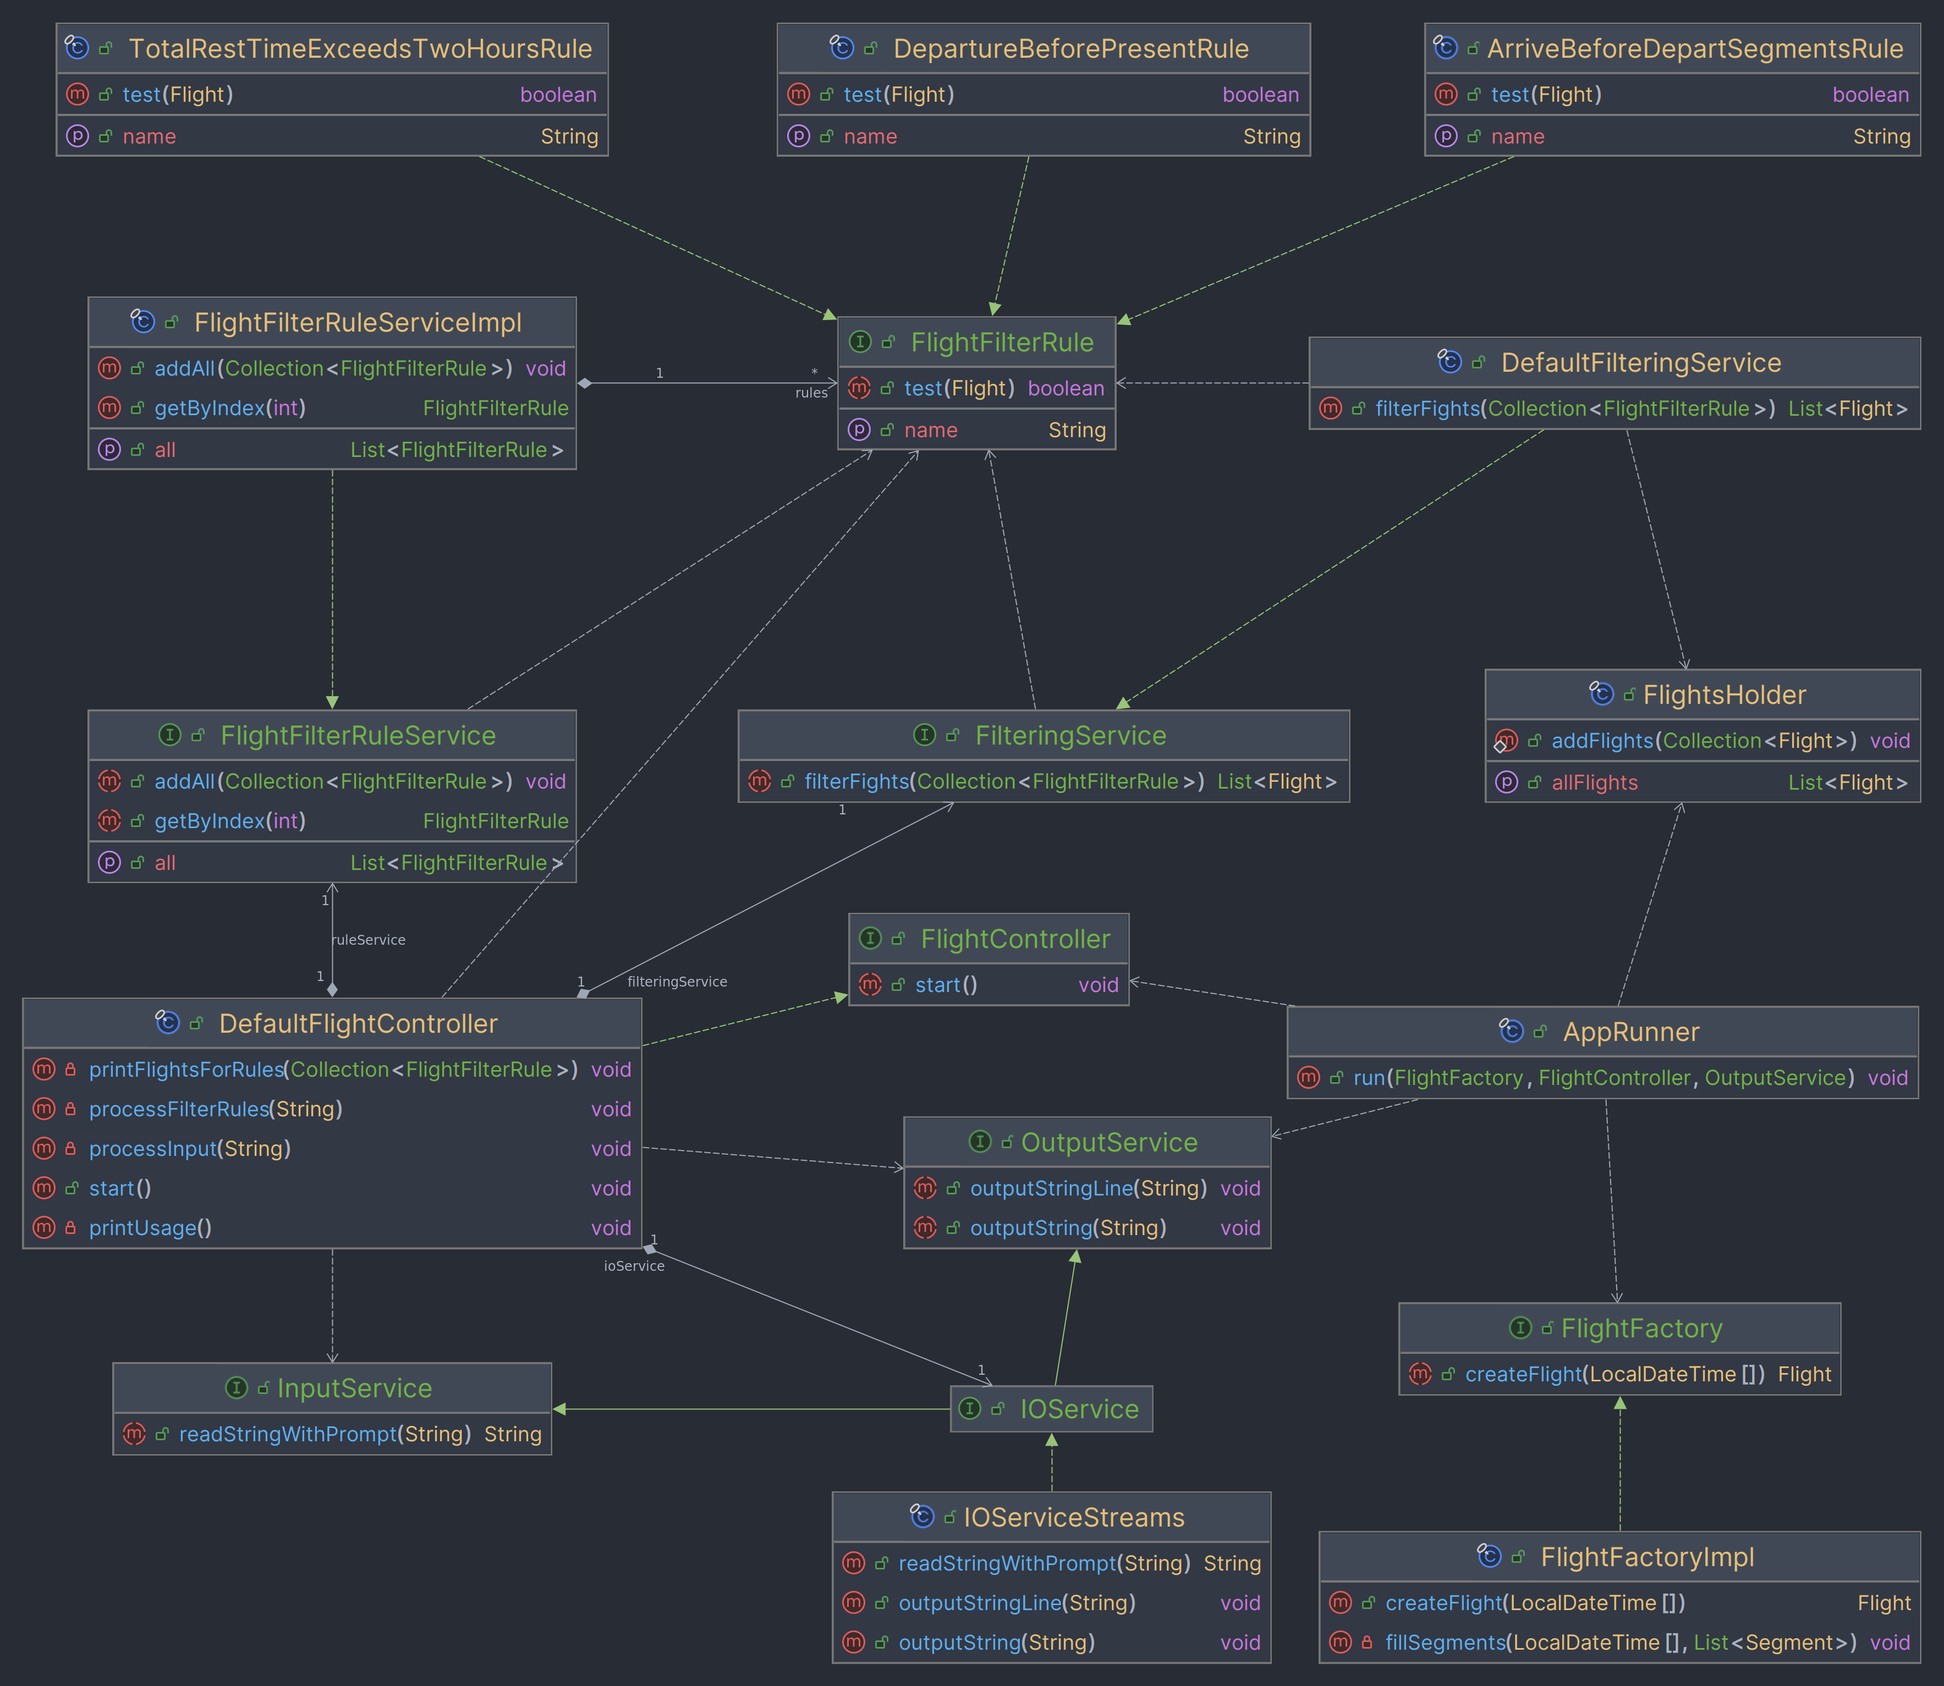
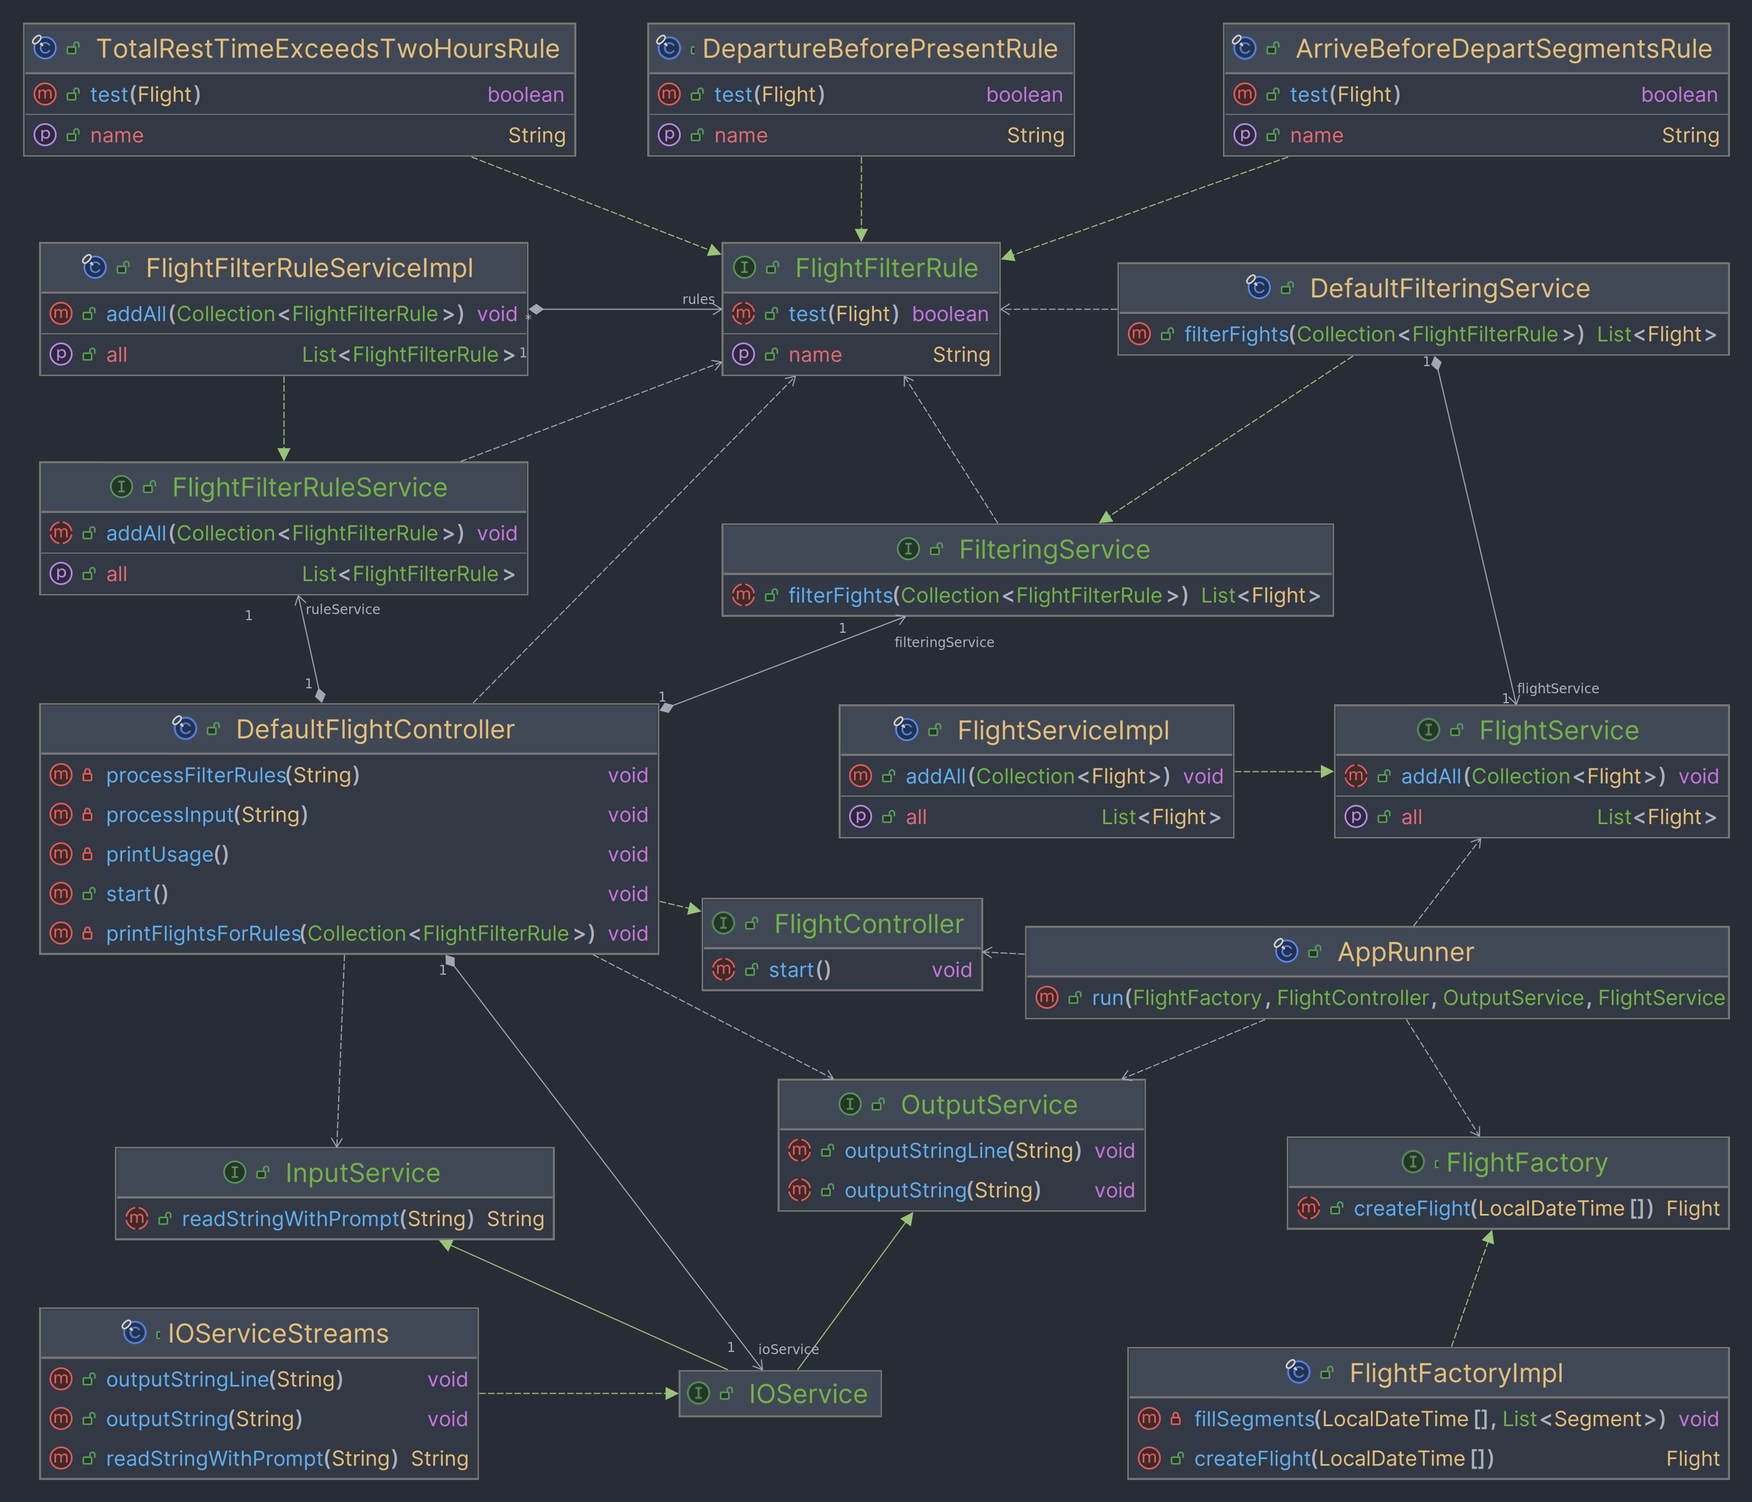
Remove holder with static accessor, add flight service
- Change FLightsHolder with static accessor to FlightService and its impl;
- Move static mock to non-static in tests;
- Edit diagrams, metadata, readme;

diff --git a/src/test/java/com/gridnine/testing/service/filter/DefaultFilteringServiceTest.java b/src/test/java/com/gridnine/testing/service/filter/DefaultFilteringServiceTest.java
@@ -4,26 +4,30 @@ import static java.time.LocalDateTime.now;
 import static java.util.Collections.emptyList;
 import static java.util.List.of;
 import static org.junit.jupiter.api.Assertions.assertEquals;
+import static org.mockito.Mockito.when;
+
+import java.util.List;
+
+import org.junit.jupiter.api.Test;
+import org.junit.jupiter.api.extension.ExtendWith;
+import org.mockito.InjectMocks;
+import org.mockito.Mock;
+import org.mockito.junit.jupiter.MockitoExtension;
 
 import com.gridnine.testing.model.Flight;
 import com.gridnine.testing.model.Segment;
-import com.gridnine.testing.service.holder.FlightsHolder;
+import com.gridnine.testing.service.flight.FlightService;
 import com.gridnine.testing.service.rule.stratagies.FlightFilterRule;
-import java.util.ArrayList;
-import java.util.List;
-import org.junit.jupiter.api.Test;
-import org.mockito.Mockito;
 
+@ExtendWith(MockitoExtension.class)
 class DefaultFilteringServiceTest {
 
   private static final Flight MATCHING_FLIGHT = new Flight(of(
-      new Segment(now().minusHours(7), now().minusHours(1)))
-  );
+      new Segment(now().minusHours(7), now().minusHours(1))));
 
   private static final Flight NON_MATCHING_FLIGHT = new Flight(of(
       new Segment(now().minusDays(3), now().minusDays(2)),
-      new Segment(now().minusDays(1), now().plusDays(1)))
-  );
+      new Segment(now().minusDays(1), now().plusDays(1))));
 
   private static final FlightFilterRule RULE_1 = new FlightFilterRule() {
     @Override
@@ -50,29 +54,27 @@ class DefaultFilteringServiceTest {
     }
   };
 
-  private final FilteringService service = new DefaultFilteringService();
+  @Mock
+  private FlightService flightService;
+
+  @InjectMocks
+  private DefaultFilteringService service;
 
   @Test
   void shouldReturnAllFlightsIfNoRulesPresent() {
-    try (var flightsHolder = Mockito.mockStatic(FlightsHolder.class)) {
-      flightsHolder.when(FlightsHolder::getAllFlights)
-          .thenReturn(new ArrayList<>(of(NON_MATCHING_FLIGHT, MATCHING_FLIGHT)));
+    when(flightService.getAll()).thenReturn(of(NON_MATCHING_FLIGHT, MATCHING_FLIGHT));
 
-      List<Flight> flights = service.filterFights(emptyList());
+    List<Flight> flights = service.filterFights(emptyList());
 
-      assertEquals(of(NON_MATCHING_FLIGHT, MATCHING_FLIGHT), flights);
-    }
+    assertEquals(of(NON_MATCHING_FLIGHT, MATCHING_FLIGHT), flights);
   }
 
   @Test
   void shouldReturnFlightsMatchingRules() {
-    try (var flightsHolder = Mockito.mockStatic(FlightsHolder.class)) {
-      flightsHolder.when(FlightsHolder::getAllFlights)
-          .thenReturn(new ArrayList<>(of(NON_MATCHING_FLIGHT, MATCHING_FLIGHT)));
+    when(flightService.getAll()).thenReturn(of(NON_MATCHING_FLIGHT, MATCHING_FLIGHT));
 
-      List<Flight> flights = service.filterFights(of(RULE_1, RULE_2));
+    List<Flight> flights = service.filterFights(of(RULE_1, RULE_2));
 
-      assertEquals(of(NON_MATCHING_FLIGHT), flights);
-    }
+    assertEquals(of(NON_MATCHING_FLIGHT), flights);
   }
 }

diff --git a/src/test/java/com/gridnine/testing/controller/DefaultFlightControllerTest.java b/src/test/java/com/gridnine/testing/controller/DefaultFlightControllerTest.java
@@ -14,11 +14,19 @@ import static java.time.LocalDateTime.now;
 import static java.util.Collections.emptyList;
 import static java.util.Collections.singletonList;
 import static org.junit.jupiter.api.Assertions.assertDoesNotThrow;
-import static org.mockito.ArgumentMatchers.anyInt;
 import static org.mockito.ArgumentMatchers.anyString;
 import static org.mockito.Mockito.times;
 import static org.mockito.Mockito.verify;
 import static org.mockito.Mockito.when;
+
+import java.util.List;
+import java.util.Set;
+
+import org.junit.jupiter.api.Test;
+import org.junit.jupiter.api.extension.ExtendWith;
+import org.mockito.InjectMocks;
+import org.mockito.Mock;
+import org.mockito.junit.jupiter.MockitoExtension;
 
 import com.gridnine.testing.model.Flight;
 import com.gridnine.testing.model.Segment;
@@ -26,13 +34,6 @@ import com.gridnine.testing.service.filter.FilteringService;
 import com.gridnine.testing.service.io.IOService;
 import com.gridnine.testing.service.rule.FlightFilterRuleService;
 import com.gridnine.testing.service.rule.stratagies.FlightFilterRule;
-import java.util.List;
-import java.util.Set;
-import org.junit.jupiter.api.Test;
-import org.junit.jupiter.api.extension.ExtendWith;
-import org.mockito.InjectMocks;
-import org.mockito.Mock;
-import org.mockito.junit.jupiter.MockitoExtension;
 
 @ExtendWith(MockitoExtension.class)
 class DefaultFlightControllerTest {
@@ -90,7 +91,6 @@ class DefaultFlightControllerTest {
   void shouldPrintUsageWhenHelpFlagIsEntered() {
     when(ioService.readStringWithPrompt(anyString())).thenReturn(HELP, EXIT);
     when(ruleService.getAll()).thenReturn(singletonList(RULE));
-    when(ruleService.getByIndex(anyInt())).thenReturn(RULE);
 
     assertDoesNotThrow(controller::start);
 
@@ -135,7 +135,6 @@ class DefaultFlightControllerTest {
   void shouldPrintMessageOnNumberOutOfRulesListRange() {
     when(ioService.readStringWithPrompt(anyString())).thenReturn("2", EXIT);
     when(ruleService.getAll()).thenReturn(singletonList(RULE));
-    when(ruleService.getByIndex(anyInt())).thenReturn(RULE);
 
     assertDoesNotThrow(controller::start);
 
@@ -146,7 +145,6 @@ class DefaultFlightControllerTest {
   void shouldPrintMessageOnNegativeRuleIndex() {
     when(ioService.readStringWithPrompt(anyString())).thenReturn("-1", EXIT);
     when(ruleService.getAll()).thenReturn(singletonList(RULE));
-    when(ruleService.getByIndex(anyInt())).thenReturn(RULE);
 
     assertDoesNotThrow(controller::start);
 
@@ -157,7 +155,6 @@ class DefaultFlightControllerTest {
   void shouldPrintMultipleFlightsOnCorrectInput() {
     when(ioService.readStringWithPrompt(anyString())).thenReturn("1", EXIT);
     when(ruleService.getAll()).thenReturn(singletonList(RULE));
-    when(ruleService.getByIndex(anyInt())).thenReturn(RULE);
     when(filteringService.filterFights(Set.of(RULE))).thenReturn(List.of(FLIGHT, FLIGHT));
 
     assertDoesNotThrow(controller::start);

diff --git a/src/main/java/com/gridnine/testing/controller/DefaultFlightController.java b/src/main/java/com/gridnine/testing/controller/DefaultFlightController.java
@@ -2,17 +2,17 @@ package com.gridnine.testing.controller;
 
 import static com.gridnine.testing.controller.MenuConstants.*;
 
+import java.util.Collection;
+import java.util.Collections;
+import java.util.HashSet;
+import java.util.Set;
+import java.util.concurrent.atomic.AtomicBoolean;
+
 import com.gridnine.testing.model.Flight;
 import com.gridnine.testing.service.filter.FilteringService;
 import com.gridnine.testing.service.io.IOService;
 import com.gridnine.testing.service.rule.FlightFilterRuleService;
 import com.gridnine.testing.service.rule.stratagies.FlightFilterRule;
-import java.util.Collection;
-import java.util.Collections;
-import java.util.HashSet;
-import java.util.List;
-import java.util.Set;
-import java.util.concurrent.atomic.AtomicBoolean;
 
 public final class DefaultFlightController implements FlightController {
 
@@ -55,29 +55,31 @@ public final class DefaultFlightController implements FlightController {
   }
 
   private void processFilterRules(String input) {
+    var allRules = ruleService.getAll();
     Set<FlightFilterRule> activeRules = new HashSet<>();
     String[] numbersSeparated = input.split(" ");
     for (var numberString : numbersSeparated) {
       int index = Integer.parseInt(numberString) - 1;
-      if (index < 0 || index >= ruleService.getAll().size()) {
+      if (index < 0 || index >= allRules.size()) {
         ioService.outputStringLine(OUT_OF_RANGE_ERROR_MSG + (index + 1));
         return;
       }
-      activeRules.add(ruleService.getByIndex(index));
+      activeRules.add(allRules.get(index));
     }
     printFlightsForRules(activeRules);
   }
 
   private void printUsage() {
+    var rules = ruleService.getAll();
     ioService.outputStringLine(USAGE);
-    for (int i = 0; i < ruleService.getAll().size(); i++) {
+    for (int i = 0; i < rules.size(); i++) {
       ioService.outputStringLine(
-          RULE_PRINT_FORMAT.formatted(i + 1, ruleService.getByIndex(i).getName()));
+          RULE_PRINT_FORMAT.formatted(i + 1, rules.get(i).getName()));
     }
   }
 
   private void printFlightsForRules(Collection<FlightFilterRule> activeRules) {
-    List<Flight> flights = filteringService.filterFights(activeRules);
+    var flights = filteringService.filterFights(activeRules);
     if (flights.isEmpty()) {
       ioService.outputStringLine(EMPTY_FLIGHTS_MSG);
     } else {

diff --git a/src/main/java/com/gridnine/testing/Main.java b/src/main/java/com/gridnine/testing/Main.java
@@ -6,6 +6,8 @@ import com.gridnine.testing.service.factory.FlightFactory;
 import com.gridnine.testing.service.factory.FlightFactoryImpl;
 import com.gridnine.testing.service.filter.DefaultFilteringService;
 import com.gridnine.testing.service.filter.FilteringService;
+import com.gridnine.testing.service.flight.FlightService;
+import com.gridnine.testing.service.flight.FlightServiceImpl;
 import com.gridnine.testing.service.io.IOService;
 import com.gridnine.testing.service.io.IOServiceStreams;
 import com.gridnine.testing.service.rule.FlightFilterRuleService;
@@ -20,14 +22,14 @@ public final class Main {
   public static void main(String[] args) {
     IOService ioService = new IOServiceStreams(System.out, System.in);
     FlightFactory factory = new FlightFactoryImpl();
-    FilteringService filteringService = new DefaultFilteringService();
+    FlightService flightService = new FlightServiceImpl();
+    FilteringService filteringService = new DefaultFilteringService(flightService);
     FlightFilterRuleService ruleService = new FlightFilterRuleServiceImpl();
     ruleService.addAll(List.of(
         new DepartureBeforePresentRule(),
         new ArriveBeforeDepartSegmentsRule(),
-        new TotalRestTimeExceedsTwoHoursRule()
-    ));
+        new TotalRestTimeExceedsTwoHoursRule()));
     FlightController controller = new DefaultFlightController(ioService, filteringService, ruleService);
-    new AppRunner().run(factory, controller, ioService);
+    new AppRunner().run(factory, controller, ioService, flightService);
   }
 }

diff --git a/src/main/java/com/gridnine/testing/AppRunner.java b/src/main/java/com/gridnine/testing/AppRunner.java
@@ -1,19 +1,21 @@
 package com.gridnine.testing;
 
+import java.util.List;
+
 import com.gridnine.testing.controller.FlightController;
 import com.gridnine.testing.exception.FlightDetailsException;
 import com.gridnine.testing.model.Flight;
 import com.gridnine.testing.service.factory.FlightFactory;
-import com.gridnine.testing.service.holder.FlightsHolder;
+import com.gridnine.testing.service.flight.FlightService;
 import com.gridnine.testing.service.io.OutputService;
-import java.util.List;
 
 public final class AppRunner {
 
-  public void run(FlightFactory factory, FlightController controller, OutputService outputService) {
+  public void run(FlightFactory factory, FlightController controller, OutputService outputService,
+      FlightService flightService) {
     try {
       List<Flight> flights = FlightBuilder.createTestFlights(factory);
-      FlightsHolder.addFlights(flights);
+      flightService.addAll(flights);
       controller.start();
     } catch (FlightDetailsException e) {
       outputService.outputStringLine("FLIGHT DETAILS ERROR: " + e.getMessage());

diff --git a/src/main/java/com/gridnine/testing/service/rule/FlightFilterRuleServiceImpl.java b/src/main/java/com/gridnine/testing/service/rule/FlightFilterRuleServiceImpl.java
@@ -1,26 +1,22 @@
 package com.gridnine.testing.service.rule;
 
-import com.gridnine.testing.service.rule.stratagies.FlightFilterRule;
+import java.util.ArrayList;
 import java.util.Collection;
 import java.util.List;
-import java.util.concurrent.CopyOnWriteArrayList;
+
+import com.gridnine.testing.service.rule.stratagies.FlightFilterRule;
 
 public final class FlightFilterRuleServiceImpl implements FlightFilterRuleService {
 
-  private final List<FlightFilterRule> rules = new CopyOnWriteArrayList<>();
+  private final List<FlightFilterRule> rules = new ArrayList<>();
 
   @Override
-  public void addAll(Collection<? extends FlightFilterRule> rules) {
+  public synchronized void addAll(Collection<? extends FlightFilterRule> rules) {
     this.rules.addAll(rules);
   }
 
   @Override
-  public List<FlightFilterRule> getAll() {
-    return rules;
-  }
-
-  @Override
-  public FlightFilterRule getByIndex(int index) {
-    return rules.get(index);
+  public synchronized List<FlightFilterRule> getAll() {
+    return List.copyOf(rules);
   }
 }

diff --git a/src/main/java/com/gridnine/testing/service/filter/DefaultFilteringService.java b/src/main/java/com/gridnine/testing/service/filter/DefaultFilteringService.java
@@ -1,16 +1,24 @@
 package com.gridnine.testing.service.filter;
 
-import com.gridnine.testing.model.Flight;
-import com.gridnine.testing.service.holder.FlightsHolder;
-import com.gridnine.testing.service.rule.stratagies.FlightFilterRule;
+import java.util.ArrayList;
 import java.util.Collection;
 import java.util.List;
 
+import com.gridnine.testing.model.Flight;
+import com.gridnine.testing.service.flight.FlightService;
+import com.gridnine.testing.service.rule.stratagies.FlightFilterRule;
+
 public final class DefaultFilteringService implements FilteringService {
+
+  private final FlightService flightService;
+
+  public DefaultFilteringService(FlightService flightService) {
+    this.flightService = flightService;
+  }
 
   @Override
   public List<Flight> filterFights(Collection<FlightFilterRule> rules) {
-    List<Flight> flights = FlightsHolder.getAllFlights();
+    List<Flight> flights = new ArrayList<>(flightService.getAll());
     for (var rule : rules) {
       flights.removeIf(rule);
     }

diff --git a/src/main/java/com/gridnine/testing/service/flight/FlightServiceImpl.java b/src/main/java/com/gridnine/testing/service/flight/FlightServiceImpl.java
@@ -1,0 +1,22 @@
+package com.gridnine.testing.service.flight;
+
+import java.util.ArrayList;
+import java.util.Collection;
+import java.util.List;
+
+import com.gridnine.testing.model.Flight;
+
+public final class FlightServiceImpl implements FlightService {
+
+  private final List<Flight> rules = new ArrayList<>();
+
+  @Override
+  public synchronized void addAll(Collection<? extends Flight> rules) {
+    this.rules.addAll(rules);
+  }
+
+  @Override
+  public synchronized List<Flight> getAll() {
+    return List.copyOf(rules);
+  }
+}

diff --git a/src/test/java/com/gridnine/testing/service/rule/stratagies/TotalRestTimeExceedsTwoHoursRuleTest.java b/src/test/java/com/gridnine/testing/service/rule/stratagies/TotalRestTimeExceedsTwoHoursRuleTest.java
@@ -21,7 +21,7 @@ class TotalRestTimeExceedsTwoHoursRuleTest {
       new Segment(now().plusHours(6), now().plusHours(7)))
   );
 
-  FlightFilterRule rule = new TotalRestTimeExceedsTwoHoursRule();
+  final FlightFilterRule rule = new TotalRestTimeExceedsTwoHoursRule();
 
   @Test
   void shouldReturnTrueOnMatchingFlight() {

diff --git a/src/main/java/com/gridnine/testing/service/flight/FlightService.java b/src/main/java/com/gridnine/testing/service/flight/FlightService.java
@@ -1,0 +1,13 @@
+package com.gridnine.testing.service.flight;
+
+import java.util.Collection;
+import java.util.List;
+
+import com.gridnine.testing.model.Flight;
+
+public interface FlightService {
+
+  void addAll(Collection<? extends Flight> rule);
+
+  List<Flight> getAll();
+}

diff --git a/src/main/java/com/gridnine/testing/service/rule/FlightFilterRuleService.java b/src/main/java/com/gridnine/testing/service/rule/FlightFilterRuleService.java
@@ -9,6 +9,4 @@ public interface FlightFilterRuleService {
   void addAll(Collection<? extends FlightFilterRule> rule);
 
   List<FlightFilterRule> getAll();
-
-  FlightFilterRule getByIndex(int index);
 }

diff --git a/src/main/java/com/gridnine/testing/service/io/InputService.java b/src/main/java/com/gridnine/testing/service/io/InputService.java
@@ -4,4 +4,3 @@ public interface InputService {
 
   String readStringWithPrompt(String prompt);
 }
-
